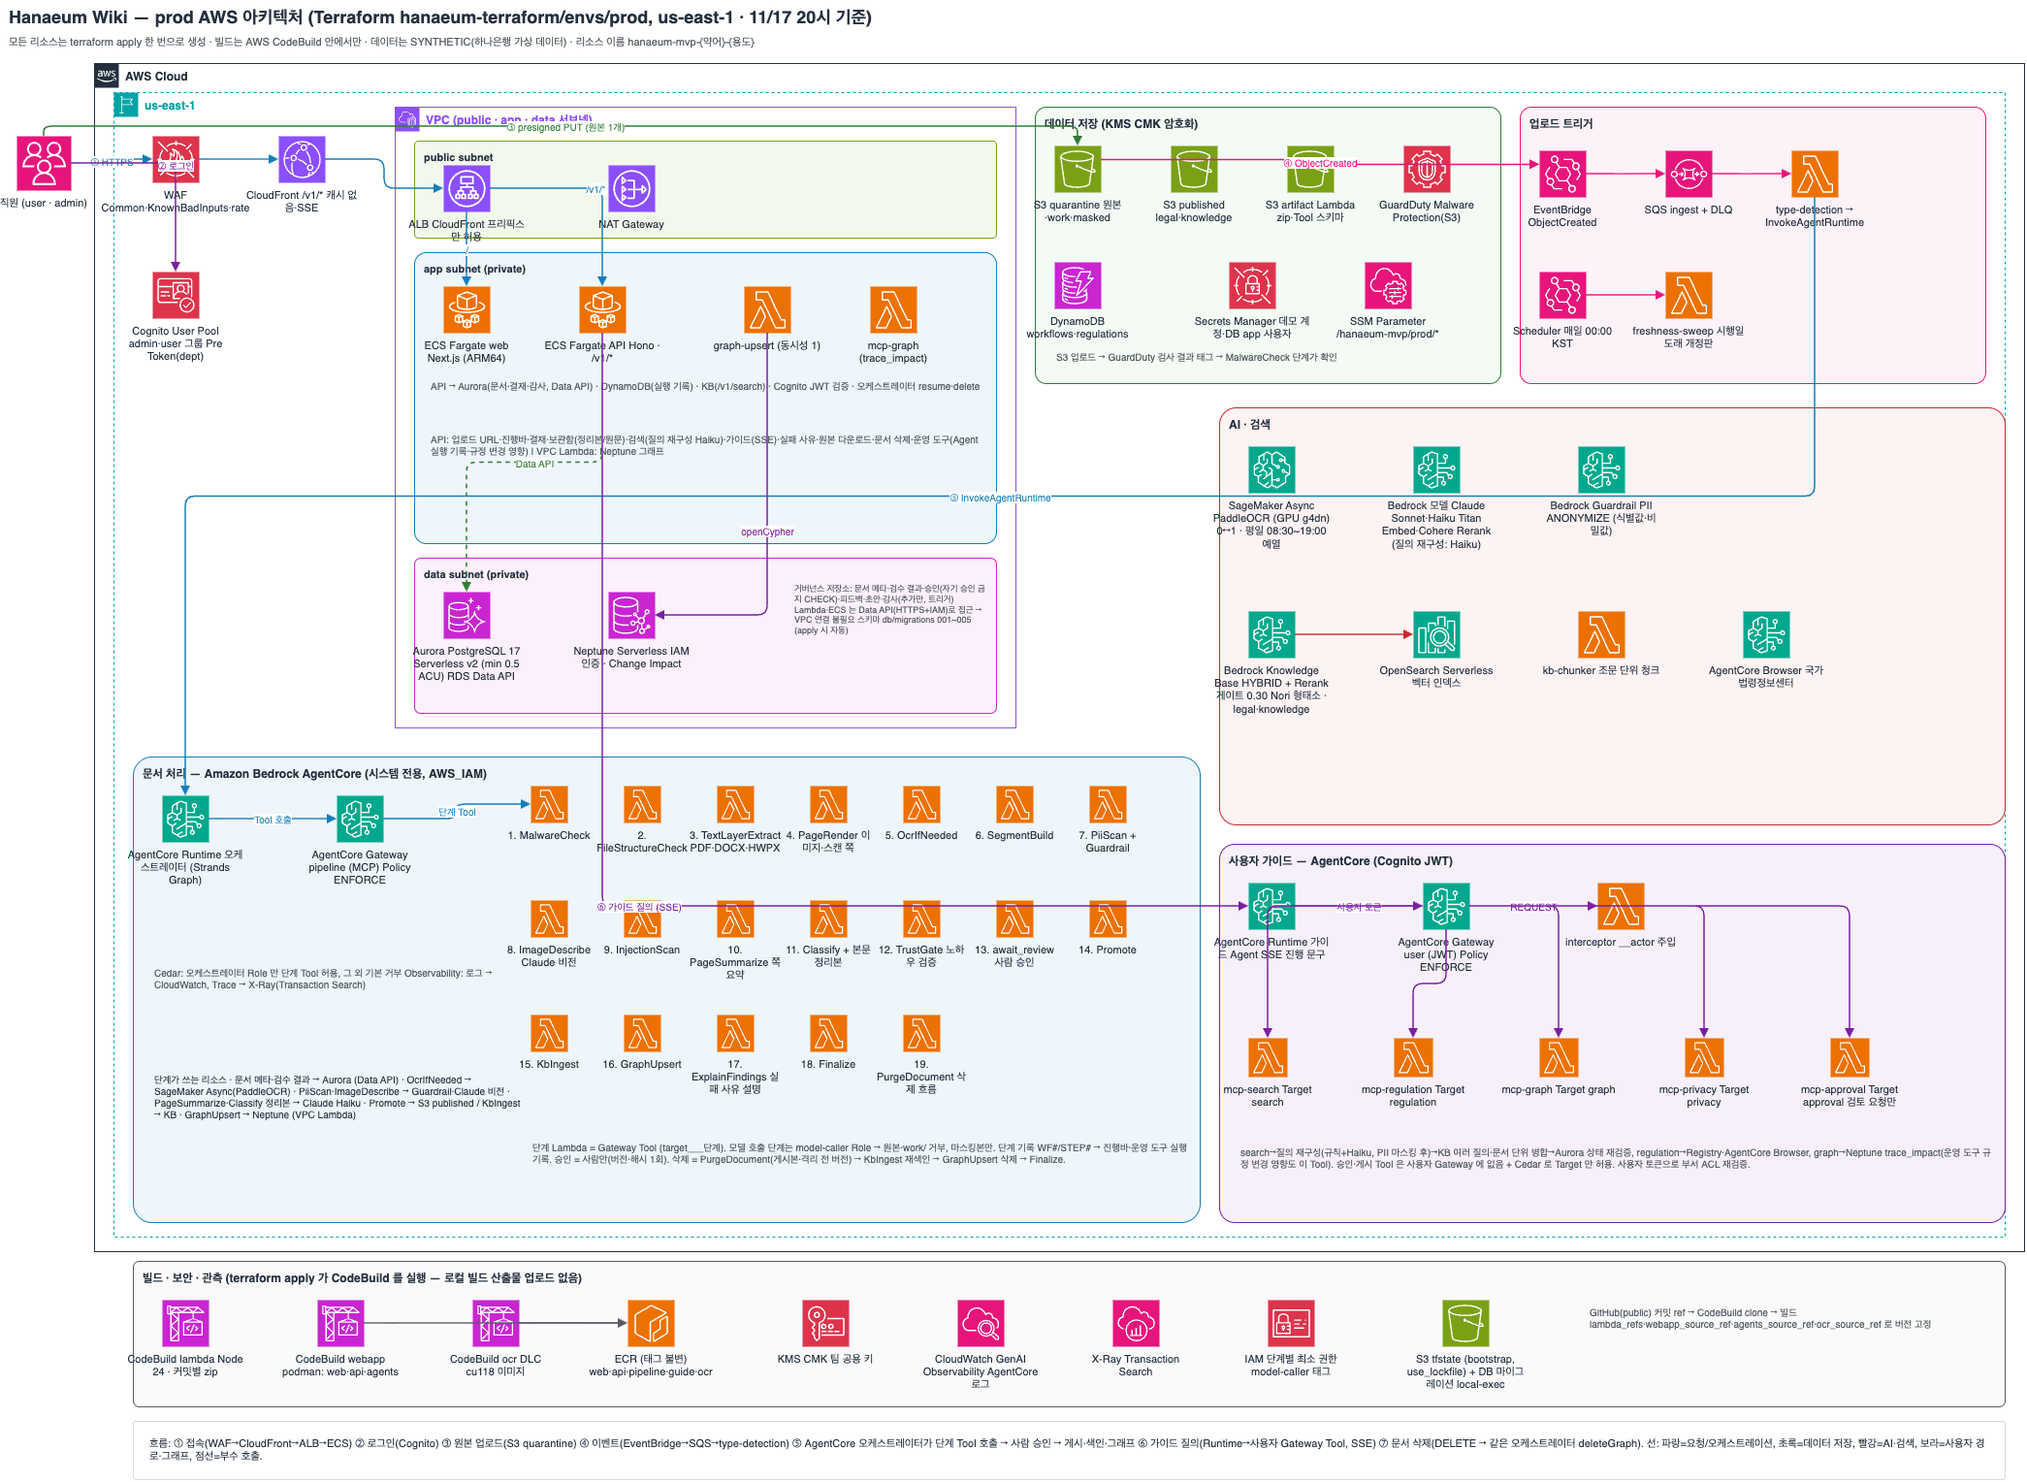
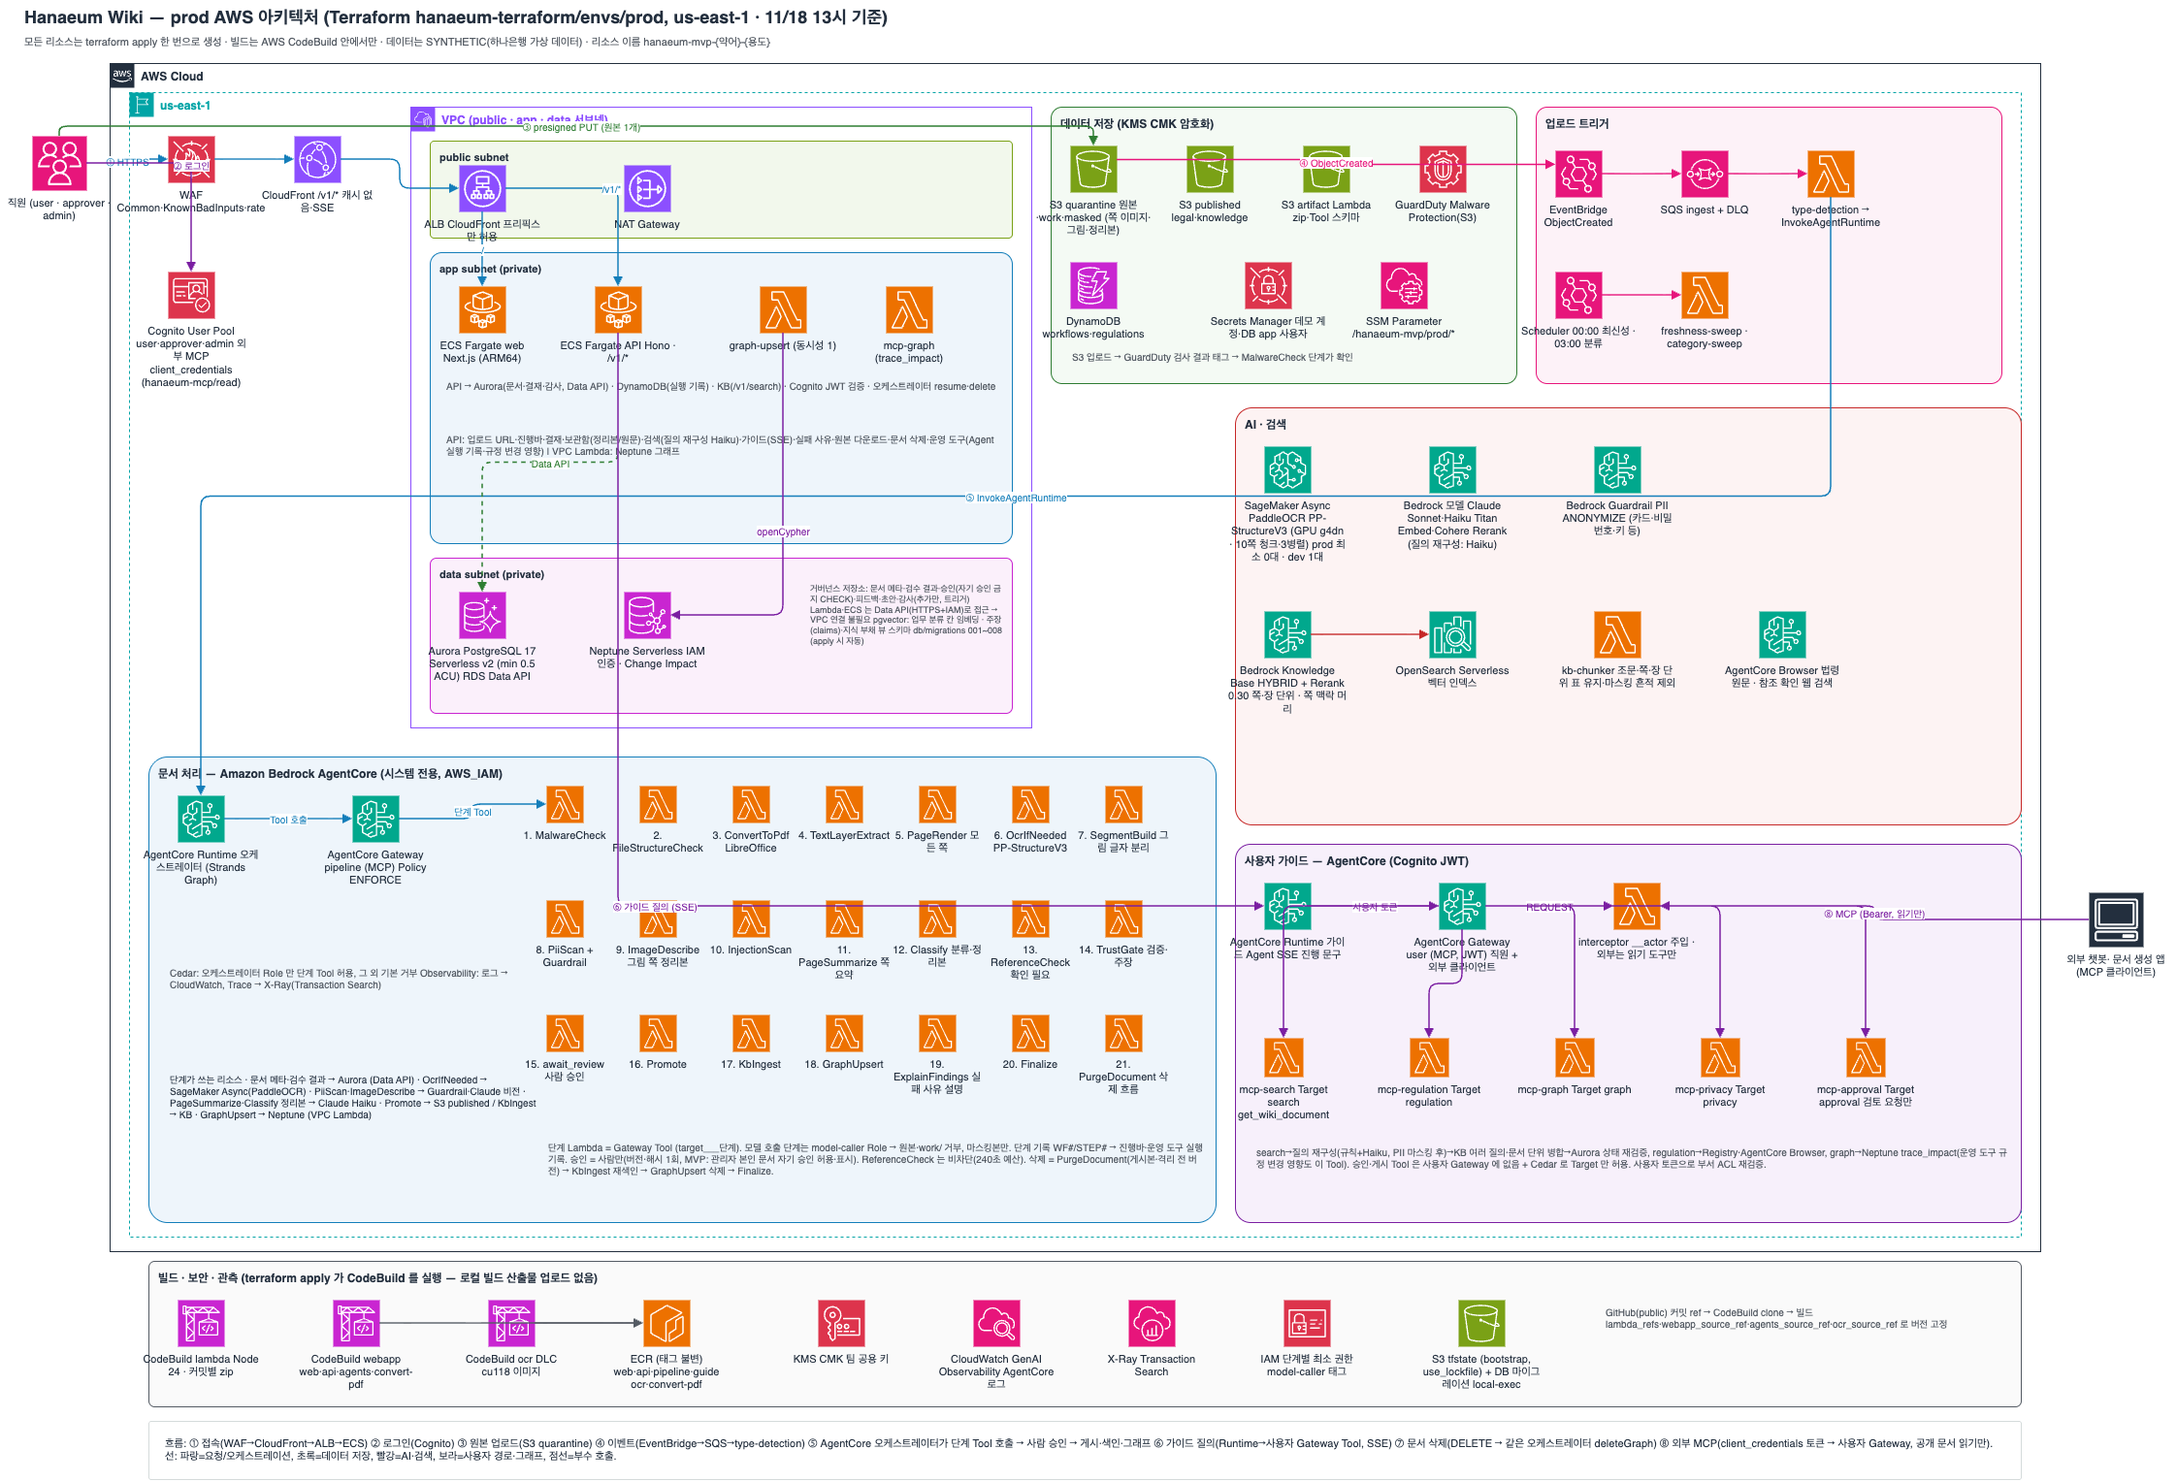
[yoyo0704] 아키텍처 그림 최신화(11/18), interceptor 외부 MCP client 허용, dev dhxorb96 e9281df(interceptor) let522mj 7064cf7(get_wiki_document)
Claude-Session: https://claude.ai/code/session_012iHv7WyqvZXnUj5QwZs7vw

diff --git a/hanaeum-terraform/docs/gen_drawio.py b/hanaeum-terraform/docs/gen_drawio.py
@@ -13,7 +13,7 @@ def nid():
 
 COL = {  # AWS 아키텍처 아이콘 카테고리 색
     "compute": "#ED7100", "network": "#8C4FFF", "storage": "#7AA116", "db": "#C925D1",
-    "security": "#DD344C", "ai": "#01A88D", "integ": "#E7157B", "mgmt": "#E7157B", "dev": "#C925D1",
+    "security": "#DD344C", "ai": "#01A88D", "integ": "#E7157B", "mgmt": "#E7157B", "dev": "#C925D1", "general": "#232F3E",
 }
 
 
@@ -69,11 +69,12 @@ def edge(a, b, label="", color="#545B64", dashed=0, num=None, exit=None, entry=N
 BLUE, GREEN, PURPLE, RED, GRAY = "#147EBA", "#2E7D32", "#7B1FA2", "#C62828", "#545B64"
 
 # ---------- 제목 ----------
-text(20, 10, 1500, 30, "Hanaeum Wiki — prod AWS 아키텍처 (Terraform hanaeum-terraform/envs/prod, us-east-1 · 11/17 20시 기준)", fs=18, bold=1)
+text(20, 10, 1500, 30, "Hanaeum Wiki — prod AWS 아키텍처 (Terraform hanaeum-terraform/envs/prod, us-east-1 · 11/18 13시 기준)", fs=18, bold=1)
 text(20, 40, 1700, 22, "모든 리소스는 terraform apply 한 번으로 생성 · 빌드는 AWS CodeBuild 안에서만 · 데이터는 SYNTHETIC(하나은행 가상 데이터) · 리소스 이름 hanaeum-mvp-{약어}-{용도}", fs=11, color=GRAY)
 
 # ---------- 사용자 ----------
-u = icon(30, 150, "users", "mgmt", "직원\n(user · admin)", 56)
+u = icon(30, 150, "users", "mgmt", "직원\n(user · approver · admin)", 56)
+ext = icon(2150, 930, "client", "general", "외부 챗봇·\n문서 생성 앱\n(MCP 클라이언트)", 56)
 
 # ---------- AWS Cloud / Region ----------
 group(110, 75, 1990, 1225, "AWS Cloud", "cloud", "#232F3E")
@@ -82,7 +83,7 @@ group(130, 105, 1950, 1180, "us-east-1", "region", "#00A4A6", dashed=1)
 # 엣지(글로벌)
 waf = icon(170, 150, "waf", "security", "WAF\nCommon·KnownBadInputs·rate")
 cf = icon(300, 150, "cloudfront", "network", "CloudFront\n/v1/* 캐시 없음·SSE")
-cog = icon(170, 290, "cognito", "security", "Cognito User Pool\nadmin·user 그룹\nPre Token(dept)")
+cog = icon(170, 290, "cognito", "security", "Cognito User Pool\nuser·approver·admin\n외부 MCP client_credentials\n(hanaeum-mcp/read)")
 
 # ---------- VPC ----------
 group(420, 120, 640, 640, "VPC (public · app · data 서브넷)", "vpc", "#8C4FFF")
@@ -98,11 +99,11 @@ text(455, 450, 570, 60, "API: 업로드 URL·진행바·결재·보관함(정리
 box(440, 585, 600, 160, "data subnet (private)", stroke="#C925D1", fill="#FBF0FB", fs=11)
 aur = icon(470, 620, "aurora", "db", "Aurora PostgreSQL 17\nServerless v2 (min 0.5 ACU)\nRDS Data API")
 nep = icon(640, 620, "neptune", "db", "Neptune Serverless\nIAM 인증 · Change Impact")
-text(830, 605, 205, 135, "거버넌스 저장소: 문서 메타·검수 결과·승인(자기 승인 금지 CHECK)·피드백·초안·감사(추가만, 트리거)\nLambda·ECS 는 Data API(HTTPS+IAM)로 접근 → VPC 연결 불필요\n스키마 db/migrations 001~005 (apply 시 자동)", fs=9, color=GRAY)
+text(830, 605, 205, 135, "거버넌스 저장소: 문서 메타·검수 결과·승인(자기 승인 금지 CHECK)·피드백·초안·감사(추가만, 트리거)\nLambda·ECS 는 Data API(HTTPS+IAM)로 접근 → VPC 연결 불필요\npgvector: 업무 분류 칸 임베딩 · 주장(claims)·지식 부채 뷰\n스키마 db/migrations 001~008 (apply 시 자동)", fs=9, color=GRAY)
 
 # ---------- 데이터 저장 ----------
 box(1080, 120, 480, 285, "데이터 저장 (KMS CMK 암호화)", stroke=GREEN, fill="#F4FAF4")
-s3q = icon(1100, 160, "s3", "storage", "S3 quarantine\n원본·work·masked")
+s3q = icon(1100, 160, "s3", "storage", "S3 quarantine\n원본·work·masked\n(쪽 이미지·그림·정리본)")
 s3p = icon(1220, 160, "s3", "storage", "S3 published\nlegal·knowledge")
 s3a = icon(1340, 160, "s3", "storage", "S3 artifact\nLambda zip·Tool 스키마")
 gd = icon(1460, 160, "guardduty", "security", "GuardDuty\nMalware Protection(S3)")
@@ -115,8 +116,8 @@ box(1580, 120, 480, 285, "업로드 트리거", stroke="#E7157B", fill="#FDF2F8"
 eb = icon(1600, 165, "eventbridge", "integ", "EventBridge\nObjectCreated")
 sqs = icon(1730, 165, "sqs", "integ", "SQS ingest\n+ DLQ")
 td = icon(1860, 165, "lambda", "compute", "type-detection\n→ InvokeAgentRuntime")
-sch = icon(1600, 290, "eventbridge", "integ", "Scheduler\n매일 00:00 KST")
-fs = icon(1730, 290, "lambda", "compute", "freshness-sweep\n시행일 도래 개정판")
+sch = icon(1600, 290, "eventbridge", "integ", "Scheduler\n00:00 최신성 · 03:00 분류")
+fs = icon(1730, 290, "lambda", "compute", "freshness-sweep ·\ncategory-sweep")
 
 # ---------- AgentCore 파이프라인 ----------
 box(150, 790, 1100, 480, "문서 처리 — Amazon Bedrock AgentCore (시스템 전용, AWS_IAM)", stroke=BLUE, fill="#EEF5FB")
@@ -124,9 +125,9 @@ rtp = icon(180, 830, "bedrock", "ai", "AgentCore Runtime\n오케스트레이터\
 gwp = icon(360, 830, "bedrock", "ai", "AgentCore Gateway\npipeline (MCP)\nPolicy ENFORCE")
 text(170, 1000, 360, 110, "Cedar: 오케스트레이터 Role 만 단계 Tool 허용, 그 외 기본 거부\nObservability: 로그 → CloudWatch, Trace → X-Ray(Transaction Search)", fs=10, color=GRAY)
 steps = [
-    ("MalwareCheck", "lambda"), ("FileStructureCheck", "lambda"), ("TextLayerExtract\nPDF·DOCX·HWPX", "lambda"), ("PageRender\n이미지·스캔 쪽", "lambda"),
-    ("OcrIfNeeded", "lambda"), ("SegmentBuild", "lambda"), ("PiiScan\n+ Guardrail", "lambda"), ("ImageDescribe\nClaude 비전", "lambda"),
-    ("InjectionScan", "lambda"), ("PageSummarize\n쪽 요약", "lambda"), ("Classify\n+ 본문 정리본", "lambda"), ("TrustGate\n노하우 검증", "lambda"), ("await_review\n사람 승인", "lambda"),
+    ("MalwareCheck", "lambda"), ("FileStructureCheck", "lambda"), ("ConvertToPdf\nLibreOffice", "lambda"), ("TextLayerExtract", "lambda"), ("PageRender\n모든 쪽", "lambda"),
+    ("OcrIfNeeded\nPP-StructureV3", "lambda"), ("SegmentBuild\n그림 글자 분리", "lambda"), ("PiiScan\n+ Guardrail", "lambda"), ("ImageDescribe\n그림 쪽 정리본", "lambda"),
+    ("InjectionScan", "lambda"), ("PageSummarize\n쪽 요약", "lambda"), ("Classify\n분류·정리본", "lambda"), ("ReferenceCheck\n확인 필요", "lambda"), ("TrustGate\n검증·주장", "lambda"), ("await_review\n사람 승인", "lambda"),
     ("Promote", "lambda"), ("KbIngest", "lambda"), ("GraphUpsert", "lambda"), ("ExplainFindings\n실패 사유 설명", "lambda"), ("Finalize", "lambda"), ("PurgeDocument\n삭제 흐름", "lambda"),
 ]
 sx, sy = 560, 820
@@ -135,7 +136,7 @@ for k, (name, res) in enumerate(steps):
     r, c = divmod(k, 7)
     step_ids[name.split("\n")[0]] = icon(sx + c * 96, sy + r * 118, res, "compute", f"{k + 1}. {name}", 38, lw=92)
 text(560, 1060 + 0, 680, 10, "", fs=1)
-text(560, 1180, 680, 80, "단계 Lambda = Gateway Tool (target___단계). 모델 호출 단계는 model-caller Role → 원본·work/ 거부, 마스킹본만. 단계 기록 WF#/STEP# → 진행바·운영 도구 실행 기록.\n승인 = 사람만(버전·해시 1회). 삭제 = PurgeDocument(게시본·격리 전 버전) → KbIngest 재색인 → GraphUpsert 삭제 → Finalize.", fs=10, color=GRAY)
+text(560, 1180, 680, 80, "단계 Lambda = Gateway Tool (target___단계). 모델 호출 단계는 model-caller Role → 원본·work/ 거부, 마스킹본만. 단계 기록 WF#/STEP# → 진행바·운영 도구 실행 기록.\n승인 = 사람만(버전·해시 1회, MVP: 관리자 본인 문서 자기 승인 허용·표시). ReferenceCheck 는 비차단(240초 예산). 삭제 = PurgeDocument(게시본·격리 전 버전) → KbIngest 재색인 → GraphUpsert 삭제 → Finalize.", fs=10, color=GRAY)
 
 text(170, 1110, 380, 150, "단계가 쓰는 리소스\n· 문서 메타·검수 결과 → Aurora (Data API)\n· OcrIfNeeded → SageMaker Async(PaddleOCR)\n· PiiScan·ImageDescribe → Guardrail·Claude 비전\n· PageSummarize·Classify 정리본 → Claude Haiku\n· Promote → S3 published / KbIngest → KB\n· GraphUpsert → Neptune (VPC Lambda)", fs=10, color="#232F3E")
 text(1100, 365, 450, 40, "S3 업로드 → GuardDuty 검사 결과 태그 → MalwareCheck 단계가 확인", fs=10, color=GRAY)
@@ -143,20 +144,20 @@ text(455, 395, 570, 50, "API → Aurora(문서·결재·감사, Data API) · Dyn
 
 # ---------- AI / 검색 ----------
 box(1270, 430, 810, 430, "AI · 검색", stroke=RED, fill="#FDF3F3")
-sm = icon(1300, 470, "sagemaker", "ai", "SageMaker Async\nPaddleOCR (GPU g4dn)\n0↔1 · 평일 08:30~19:00 예열")
+sm = icon(1300, 470, "sagemaker", "ai", "SageMaker Async\nPaddleOCR PP-StructureV3\n(GPU g4dn · 10쪽 청크·3병렬)\nprod 최소 0대 · dev 1대")
 br = icon(1470, 470, "bedrock", "ai", "Bedrock 모델\nClaude Sonnet·Haiku\nTitan Embed·Cohere Rerank\n(질의 재구성: Haiku)")
-grd = icon(1640, 470, "bedrock", "ai", "Bedrock Guardrail\nPII ANONYMIZE\n(식별값·비밀값)")
-kb = icon(1300, 640, "bedrock", "ai", "Bedrock Knowledge Base\nHYBRID + Rerank 게이트 0.30\nNori 형태소 · legal·knowledge")
+grd = icon(1640, 470, "bedrock", "ai", "Bedrock Guardrail\nPII ANONYMIZE\n(카드·비밀번호·키 등)")
+kb = icon(1300, 640, "bedrock", "ai", "Bedrock Knowledge Base\nHYBRID + Rerank 0.30\n쪽·장 단위 · 쪽 맥락 머리")
 aoss = icon(1470, 640, "elasticsearch_service", "ai", "OpenSearch Serverless\n벡터 인덱스")
-chk = icon(1640, 640, "lambda", "compute", "kb-chunker\n조문 단위 청크")
-brw = icon(1810, 640, "bedrock", "ai", "AgentCore Browser\n국가법령정보센터")
+chk = icon(1640, 640, "lambda", "compute", "kb-chunker\n조문·쪽·장 단위\n표 유지·마스킹 흔적 제외")
+brw = icon(1810, 640, "bedrock", "ai", "AgentCore Browser\n법령 원문 ·\n참조 확인 웹 검색")
 
 # ---------- 사용자 가이드 ----------
 box(1270, 880, 810, 390, "사용자 가이드 — AgentCore (Cognito JWT)", stroke=PURPLE, fill="#F7F0FB")
 rtg = icon(1300, 920, "bedrock", "ai", "AgentCore Runtime\n가이드 Agent\nSSE 진행 문구")
-gwu = icon(1480, 920, "bedrock", "ai", "AgentCore Gateway\nuser (JWT)\nPolicy ENFORCE")
-icp = icon(1660, 920, "lambda", "compute", "interceptor\n__actor 주입")
-tools = [("mcp-search", "search"), ("mcp-regulation", "regulation"), ("mcp-graph", "graph"), ("mcp-privacy", "privacy"), ("mcp-approval", "approval\n검토 요청만")]
+gwu = icon(1480, 920, "bedrock", "ai", "AgentCore Gateway\nuser (MCP, JWT)\n직원 + 외부 클라이언트")
+icp = icon(1660, 920, "lambda", "compute", "interceptor\n__actor 주입 ·\n외부는 읽기 도구만")
+tools = [("mcp-search", "search\nget_wiki_document"), ("mcp-regulation", "regulation"), ("mcp-graph", "graph"), ("mcp-privacy", "privacy"), ("mcp-approval", "approval\n검토 요청만")]
 tool_ids = []
 for k, (n, t) in enumerate(tools):
     tool_ids.append(icon(1300 + k * 150, 1080, "lambda", "compute", f"{n}\nTarget {t}", 40))
@@ -166,9 +167,9 @@ text(1290, 1185, 780, 75, "search→질의 재구성(규칙+Haiku, PII 마스킹
 box(150, 1300 - 15, 1930, 0, "", stroke="none", fill="none")
 box(150, 1310, 1930, 150, "빌드 · 보안 · 관측 (terraform apply 가 CodeBuild 를 실행 — 로컬 빌드 산출물 업로드 없음)", stroke=GRAY, fill="#FAFAFA")
 cb1 = icon(180, 1350, "codebuild", "dev", "CodeBuild lambda\nNode 24 · 커밋별 zip")
-cb2 = icon(340, 1350, "codebuild", "dev", "CodeBuild webapp\npodman: web·api·agents")
+cb2 = icon(340, 1350, "codebuild", "dev", "CodeBuild webapp\nweb·api·agents·convert-pdf")
 cb3 = icon(500, 1350, "codebuild", "dev", "CodeBuild ocr\nDLC cu118 이미지")
-ecr = icon(660, 1350, "ecr", "compute", "ECR (태그 불변)\nweb·api·pipeline·guide·ocr")
+ecr = icon(660, 1350, "ecr", "compute", "ECR (태그 불변)\nweb·api·pipeline·guide\nocr·convert-pdf")
 kms = icon(840, 1350, "key_management_service", "security", "KMS CMK\n팀 공용 키")
 cw = icon(1000, 1350, "cloudwatch_2", "mgmt", "CloudWatch\nGenAI Observability\nAgentCore 로그")
 xr = icon(1160, 1350, "xray", "mgmt", "X-Ray\nTransaction Search")
@@ -199,16 +200,17 @@ edge(gwu, icp, "REQUEST", PURPLE, dashed=1)
 for t in tool_ids:
     edge(gwu, t, "", PURPLE)
 edge(sch, fs, "", "#E7157B")
+edge(ext, icp, "⑧ MCP (Bearer, 읽기만)", PURPLE, exit=(0, 0.5), entry=(1, 0.5))
 edge(cb2, ecr, "", GRAY)
 edge(cb3, ecr, "", GRAY)
 
 # 범례
 box(150, 1475, 1930, 60, "", stroke="#D5DBDB", fill="#FFFFFF", bold=0)
-text(165, 1485, 1900, 50, "흐름: ① 접속(WAF→CloudFront→ALB→ECS) ② 로그인(Cognito) ③ 원본 업로드(S3 quarantine) ④ 이벤트(EventBridge→SQS→type-detection) ⑤ AgentCore 오케스트레이터가 단계 Tool 호출 → 사람 승인 → 게시·색인·그래프 ⑥ 가이드 질의(Runtime→사용자 Gateway Tool, SSE) ⑦ 문서 삭제(DELETE → 같은 오케스트레이터 deleteGraph).  "
+text(165, 1485, 1900, 50, "흐름: ① 접속(WAF→CloudFront→ALB→ECS) ② 로그인(Cognito) ③ 원본 업로드(S3 quarantine) ④ 이벤트(EventBridge→SQS→type-detection) ⑤ AgentCore 오케스트레이터가 단계 Tool 호출 → 사람 승인 → 게시·색인·그래프 ⑥ 가이드 질의(Runtime→사용자 Gateway Tool, SSE) ⑦ 문서 삭제(DELETE → 같은 오케스트레이터 deleteGraph) ⑧ 외부 MCP(client_credentials 토큰 → 사용자 Gateway, 공개 문서 읽기만).  "
      "선: 파랑=요청/오케스트레이션, 초록=데이터 저장, 빨강=AI·검색, 보라=사용자 경로·그래프, 점선=부수 호출.", fs=11)
 
 xml = ('<mxfile host="app.diagrams.net"><diagram id="prod" name="prod AWS"><mxGraphModel dx="1600" dy="1200" grid="1" gridSize="10" guides="1" '
-       'tooltips="1" connect="1" arrows="1" fold="1" page="1" pageScale="1" pageWidth="2150" pageHeight="1560" math="0" shadow="0">'
+       'tooltips="1" connect="1" arrows="1" fold="1" page="1" pageScale="1" pageWidth="2260" pageHeight="1560" math="0" shadow="0">'
        '<root><mxCell id="0"/><mxCell id="1" parent="0"/>' + "".join(cells) + "</root></mxGraphModel></diagram></mxfile>")
 open(sys.argv[1], "w").write(xml)
 print("cells", len(cells))

diff --git a/hanaeum-terraform/docs/README.md b/hanaeum-terraform/docs/README.md
@@ -1,4 +1,4 @@
 # hanaeum-terraform/docs
 
-Terraform 구성의 아키텍처 그림. `prod-architecture.drawio`(편집용)·`prod-architecture.png`(보기용). 생성 기준: envs/prod (11/17 20시: Aurora PostgreSQL 전환·문서 삭제 흐름·질의 재구성·운영 도구 반영).
+Terraform 구성의 아키텍처 그림. `prod-architecture.drawio`(편집용)·`prod-architecture.png`(보기용). 생성 기준: envs/prod (11/18 13시: 전부 OCR·ConvertToPdf·그림 쪽 정리본·확인 필요(ReferenceCheck)·업무 분류·주장·외부 MCP·관리자 자기 승인 반영).
 다시 만들기: `python3 gen_drawio.py prod-architecture.drawio` → draw.io 데스크톱 `draw.io -x -f png -s 1 -o prod-architecture.png prod-architecture.drawio`
